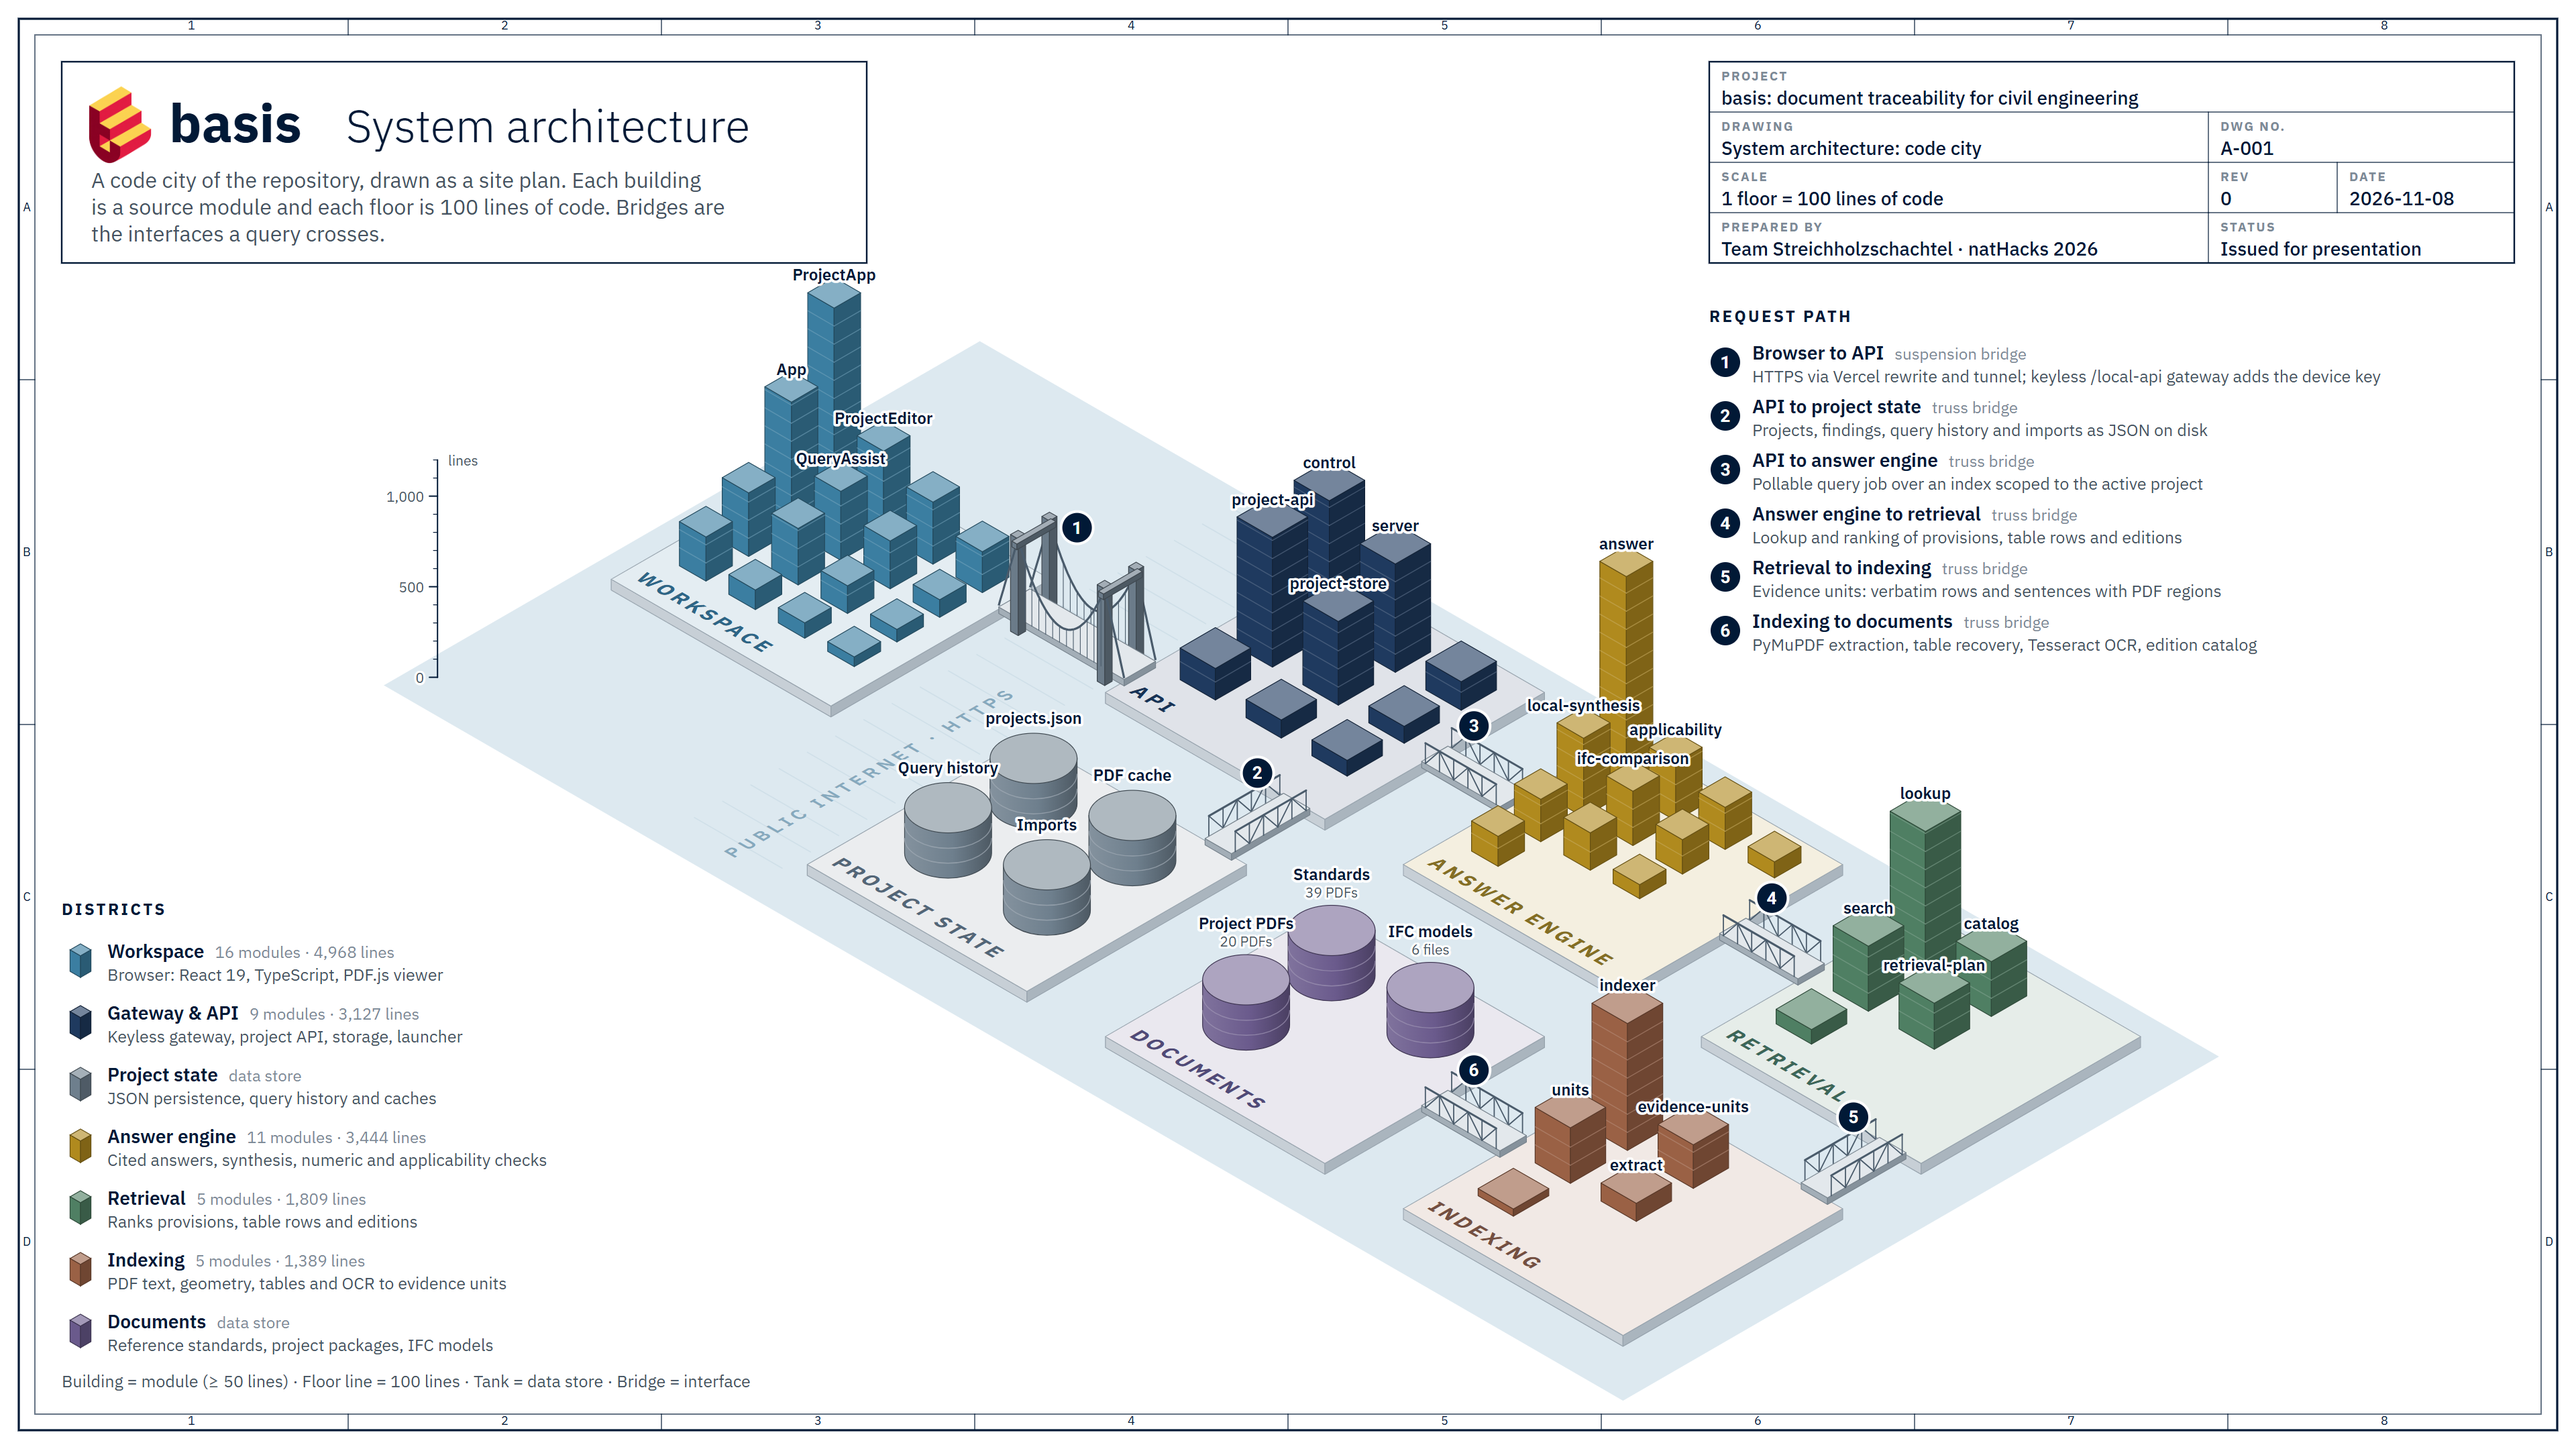
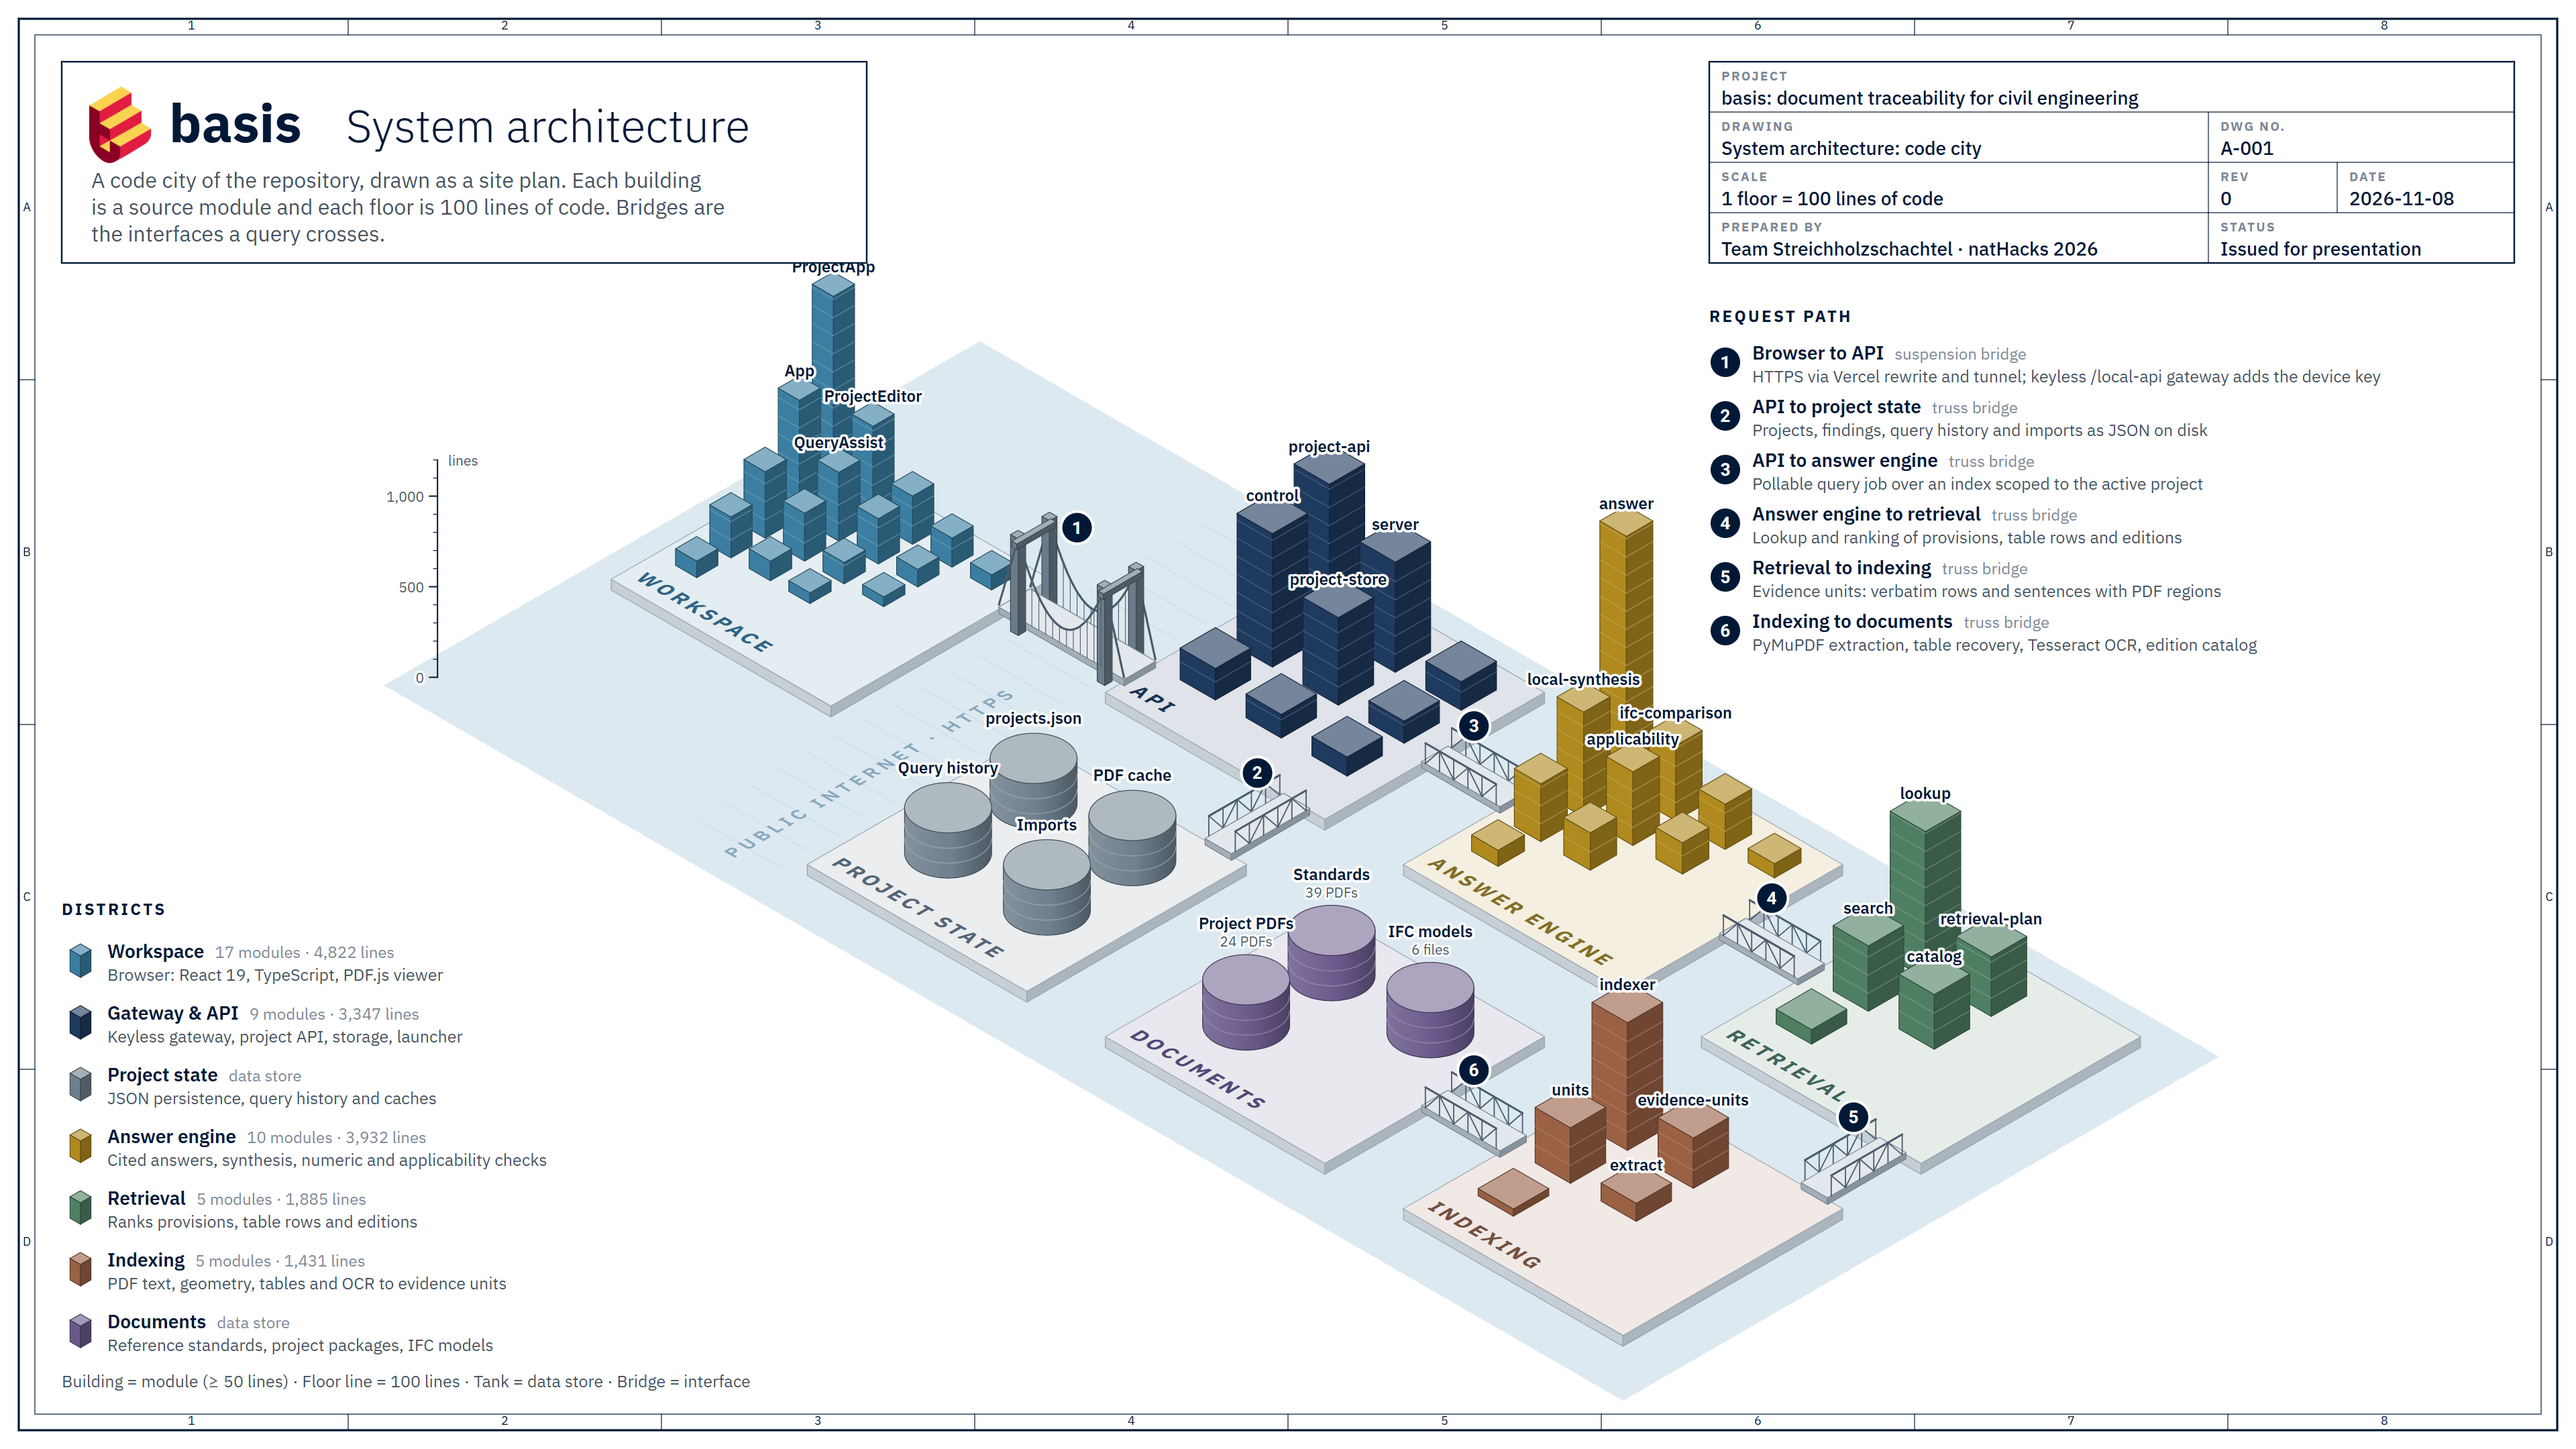
Remove claude.mjs from the code city and refresh line counts

diff --git a/docs/architecture/code-city-data.js b/docs/architecture/code-city-data.js
@@ -13,39 +13,35 @@ window.CITY = {
    "items": [
     {
      "name": "ProjectApp",
-     "loc": 1099
+     "loc": 1117
     },
     {
      "name": "App",
-     "loc": 716
+     "loc": 652
     },
     {
      "name": "ProjectEditor",
-     "loc": 467
+     "loc": 526
     },
     {
      "name": "QueryAssist",
      "loc": 380
     },
     {
-     "name": "backend",
-     "loc": 351
-    },
-    {
-     "name": "data",
-     "loc": 342
-    },
-    {
      "name": "PdfPane",
-     "loc": 312
+     "loc": 367
+    },
+    {
+     "name": "ScopedQueryBar",
+     "loc": 267
     },
     {
      "name": "DocumentMinimap",
      "loc": 264
     },
     {
-     "name": "additionalExamples",
-     "loc": 244
+     "name": "backend",
+     "loc": 251
     },
     {
      "name": "useQueryTabs",
@@ -53,7 +49,11 @@ window.CITY = {
     },
     {
      "name": "WorkspaceSettings",
-     "loc": 153
+     "loc": 160
+    },
+    {
+     "name": "ProjectDocumentReader",
+     "loc": 118
     },
     {
      "name": "projects",
@@ -64,19 +64,23 @@ window.CITY = {
      "loc": 97
     },
     {
-     "name": "QueryReport",
-     "loc": 84
+     "name": "ScanDetails",
+     "loc": 92
     },
     {
-     "name": "QueryHome",
-     "loc": 70
+     "name": "QueryReport",
+     "loc": 83
+    },
+    {
+     "name": "SearchDiagnostics",
+     "loc": 59
     },
     {
      "name": "AppHeader",
      "loc": 54
     }
    ],
-   "total": 4968,
+   "total": 4822,
    "tanks": null
   },
   {
@@ -90,20 +94,20 @@ window.CITY = {
    ],
    "items": [
     {
+     "name": "project-api",
+     "loc": 828
+    },
+    {
      "name": "control",
      "loc": 737
     },
     {
-     "name": "project-api",
-     "loc": 717
-    },
-    {
      "name": "server",
-     "loc": 598
+     "loc": 608
     },
     {
      "name": "project-store",
-     "loc": 462
+     "loc": 483
     },
     {
      "name": "demo-gateway",
@@ -115,18 +119,18 @@ window.CITY = {
     },
     {
      "name": "project-imports",
-     "loc": 100
-    },
-    {
-     "name": "config",
-     "loc": 93
+     "loc": 131
     },
     {
      "name": "project-evidence",
-     "loc": 87
+     "loc": 122
+    },
+    {
+     "name": "config",
+     "loc": 105
     }
    ],
-   "total": 3127,
+   "total": 3347,
    "tanks": null
   },
   {
@@ -171,39 +175,35 @@ window.CITY = {
    "items": [
     {
      "name": "answer",
-     "loc": 1191
+     "loc": 1414
     },
     {
      "name": "local-synthesis",
-     "loc": 435
-    },
-    {
-     "name": "applicability",
-     "loc": 322
+     "loc": 579
     },
     {
      "name": "ifc-comparison",
-     "loc": 300
+     "loc": 415
     },
     {
-     "name": "clarify",
-     "loc": 234
+     "name": "applicability",
+     "loc": 407
     },
     {
      "name": "calculations",
-     "loc": 232
+     "loc": 320
+    },
+    {
+     "name": "clarify",
+     "loc": 250
     },
     {
      "name": "local-evidence",
      "loc": 207
     },
     {
-     "name": "claude",
-     "loc": 190
-    },
-    {
      "name": "model",
-     "loc": 166
+     "loc": 173
     },
     {
      "name": "entailment",
@@ -214,7 +214,7 @@ window.CITY = {
      "loc": 78
     }
    ],
-   "total": 3444,
+   "total": 3932,
    "tanks": null
   },
   {
@@ -233,22 +233,22 @@ window.CITY = {
     },
     {
      "name": "search",
-     "loc": 360
+     "loc": 361
+    },
+    {
+     "name": "retrieval-plan",
+     "loc": 329
     },
     {
      "name": "catalog",
      "loc": 303
     },
     {
-     "name": "retrieval-plan",
-     "loc": 254
-    },
-    {
      "name": "source-lookup",
      "loc": 81
     }
    ],
-   "total": 1809,
+   "total": 1885,
    "tanks": null
   },
   {
@@ -263,7 +263,7 @@ window.CITY = {
    "items": [
     {
      "name": "indexer",
-     "loc": 701
+     "loc": 705
     },
     {
      "name": "units",
@@ -271,7 +271,7 @@ window.CITY = {
     },
     {
      "name": "evidence-units",
-     "loc": 241
+     "loc": 279
     },
     {
      "name": "extract",
@@ -282,7 +282,7 @@ window.CITY = {
      "loc": 40
     }
    ],
-   "total": 1389,
+   "total": 1431,
    "tanks": null
   },
   {
@@ -303,7 +303,7 @@ window.CITY = {
     ],
     [
      "Project PDFs",
-     "20 PDFs"
+     "24 PDFs"
     ],
     [
      "IFC models",

diff --git a/docs/architecture/code-city-3d.html b/docs/architecture/code-city-3d.html
@@ -470,8 +470,7 @@
     clarify: 'Clarifying questions',
     calculations: 'Rechecks every number',
     'local-evidence': 'Selects the evidence to cite',
-    claude: 'Optional Claude synthesis',
-    model: 'Local model (Ollama, llama.cpp)',
+    model: 'On-device answer model',
     entailment: 'Flags contradicted claims',
     'query-suggestions': 'Alternative queries',
     // Retrieval
